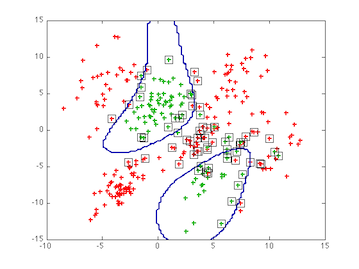
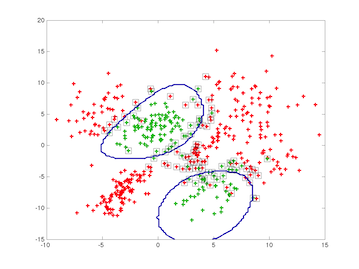
png

diff --git a/linearsvm/evalData.m b/linearsvm/evalData.m
@@ -53,10 +53,10 @@ clear dataA dataB dataH dataD dataF dataC dataG;
 %X = X';
 %samples = X(:,index);
 %targets = y(index,1)*2 -1;
-index = randsample(size(targets, 1), 450, 1);
-%X = X';
-samples = samples(:,index);
-targets = targets(index,1);
+% index = randsample(size(targets, 1), 450, 1);
+% %X = X';
+% samples = samples(:,index);
+% targets = targets(index,1);
 % training svm
 tic;
 smo = smosvm(samples, targets);

diff --git a/linearsvm/smosvm.m b/linearsvm/smosvm.m
@@ -4,7 +4,7 @@ global smo;
 smo = struct;
 % threshold or W_0
 smo.b = 0;
-smo.C = 100;
+smo.C = 50;
 % tolerance for KKT condition
 smo.tol = 0.001;
 % joint minimization parameter when eta is not negative
